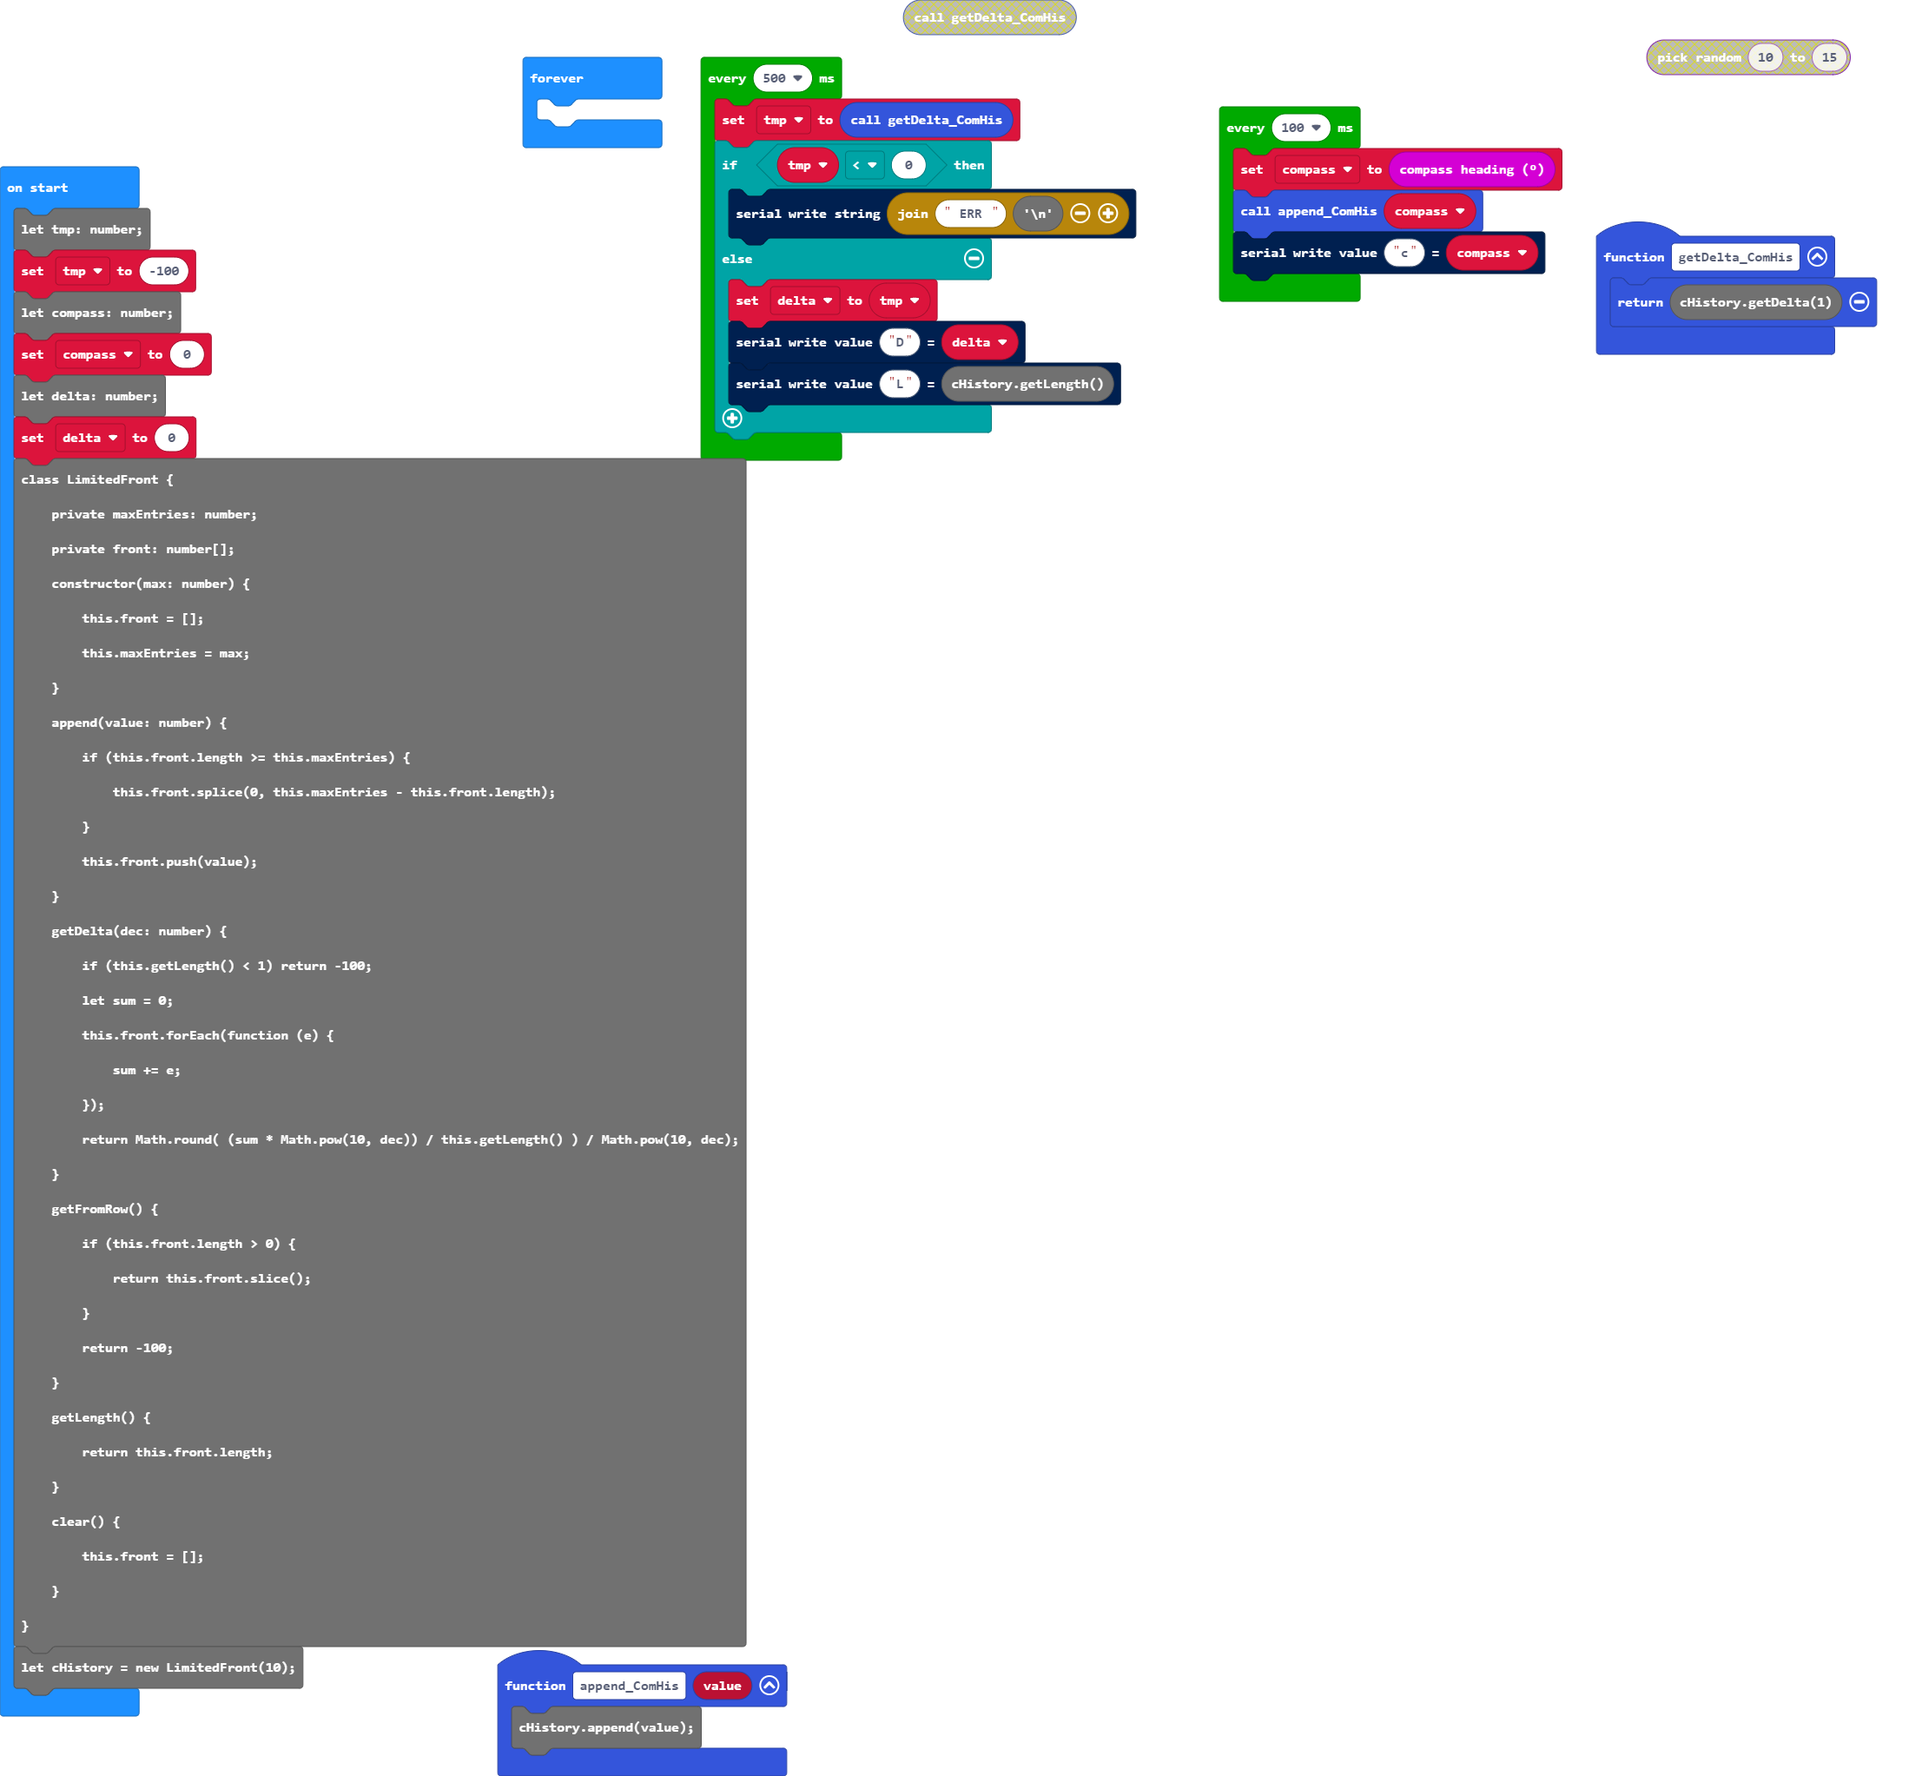
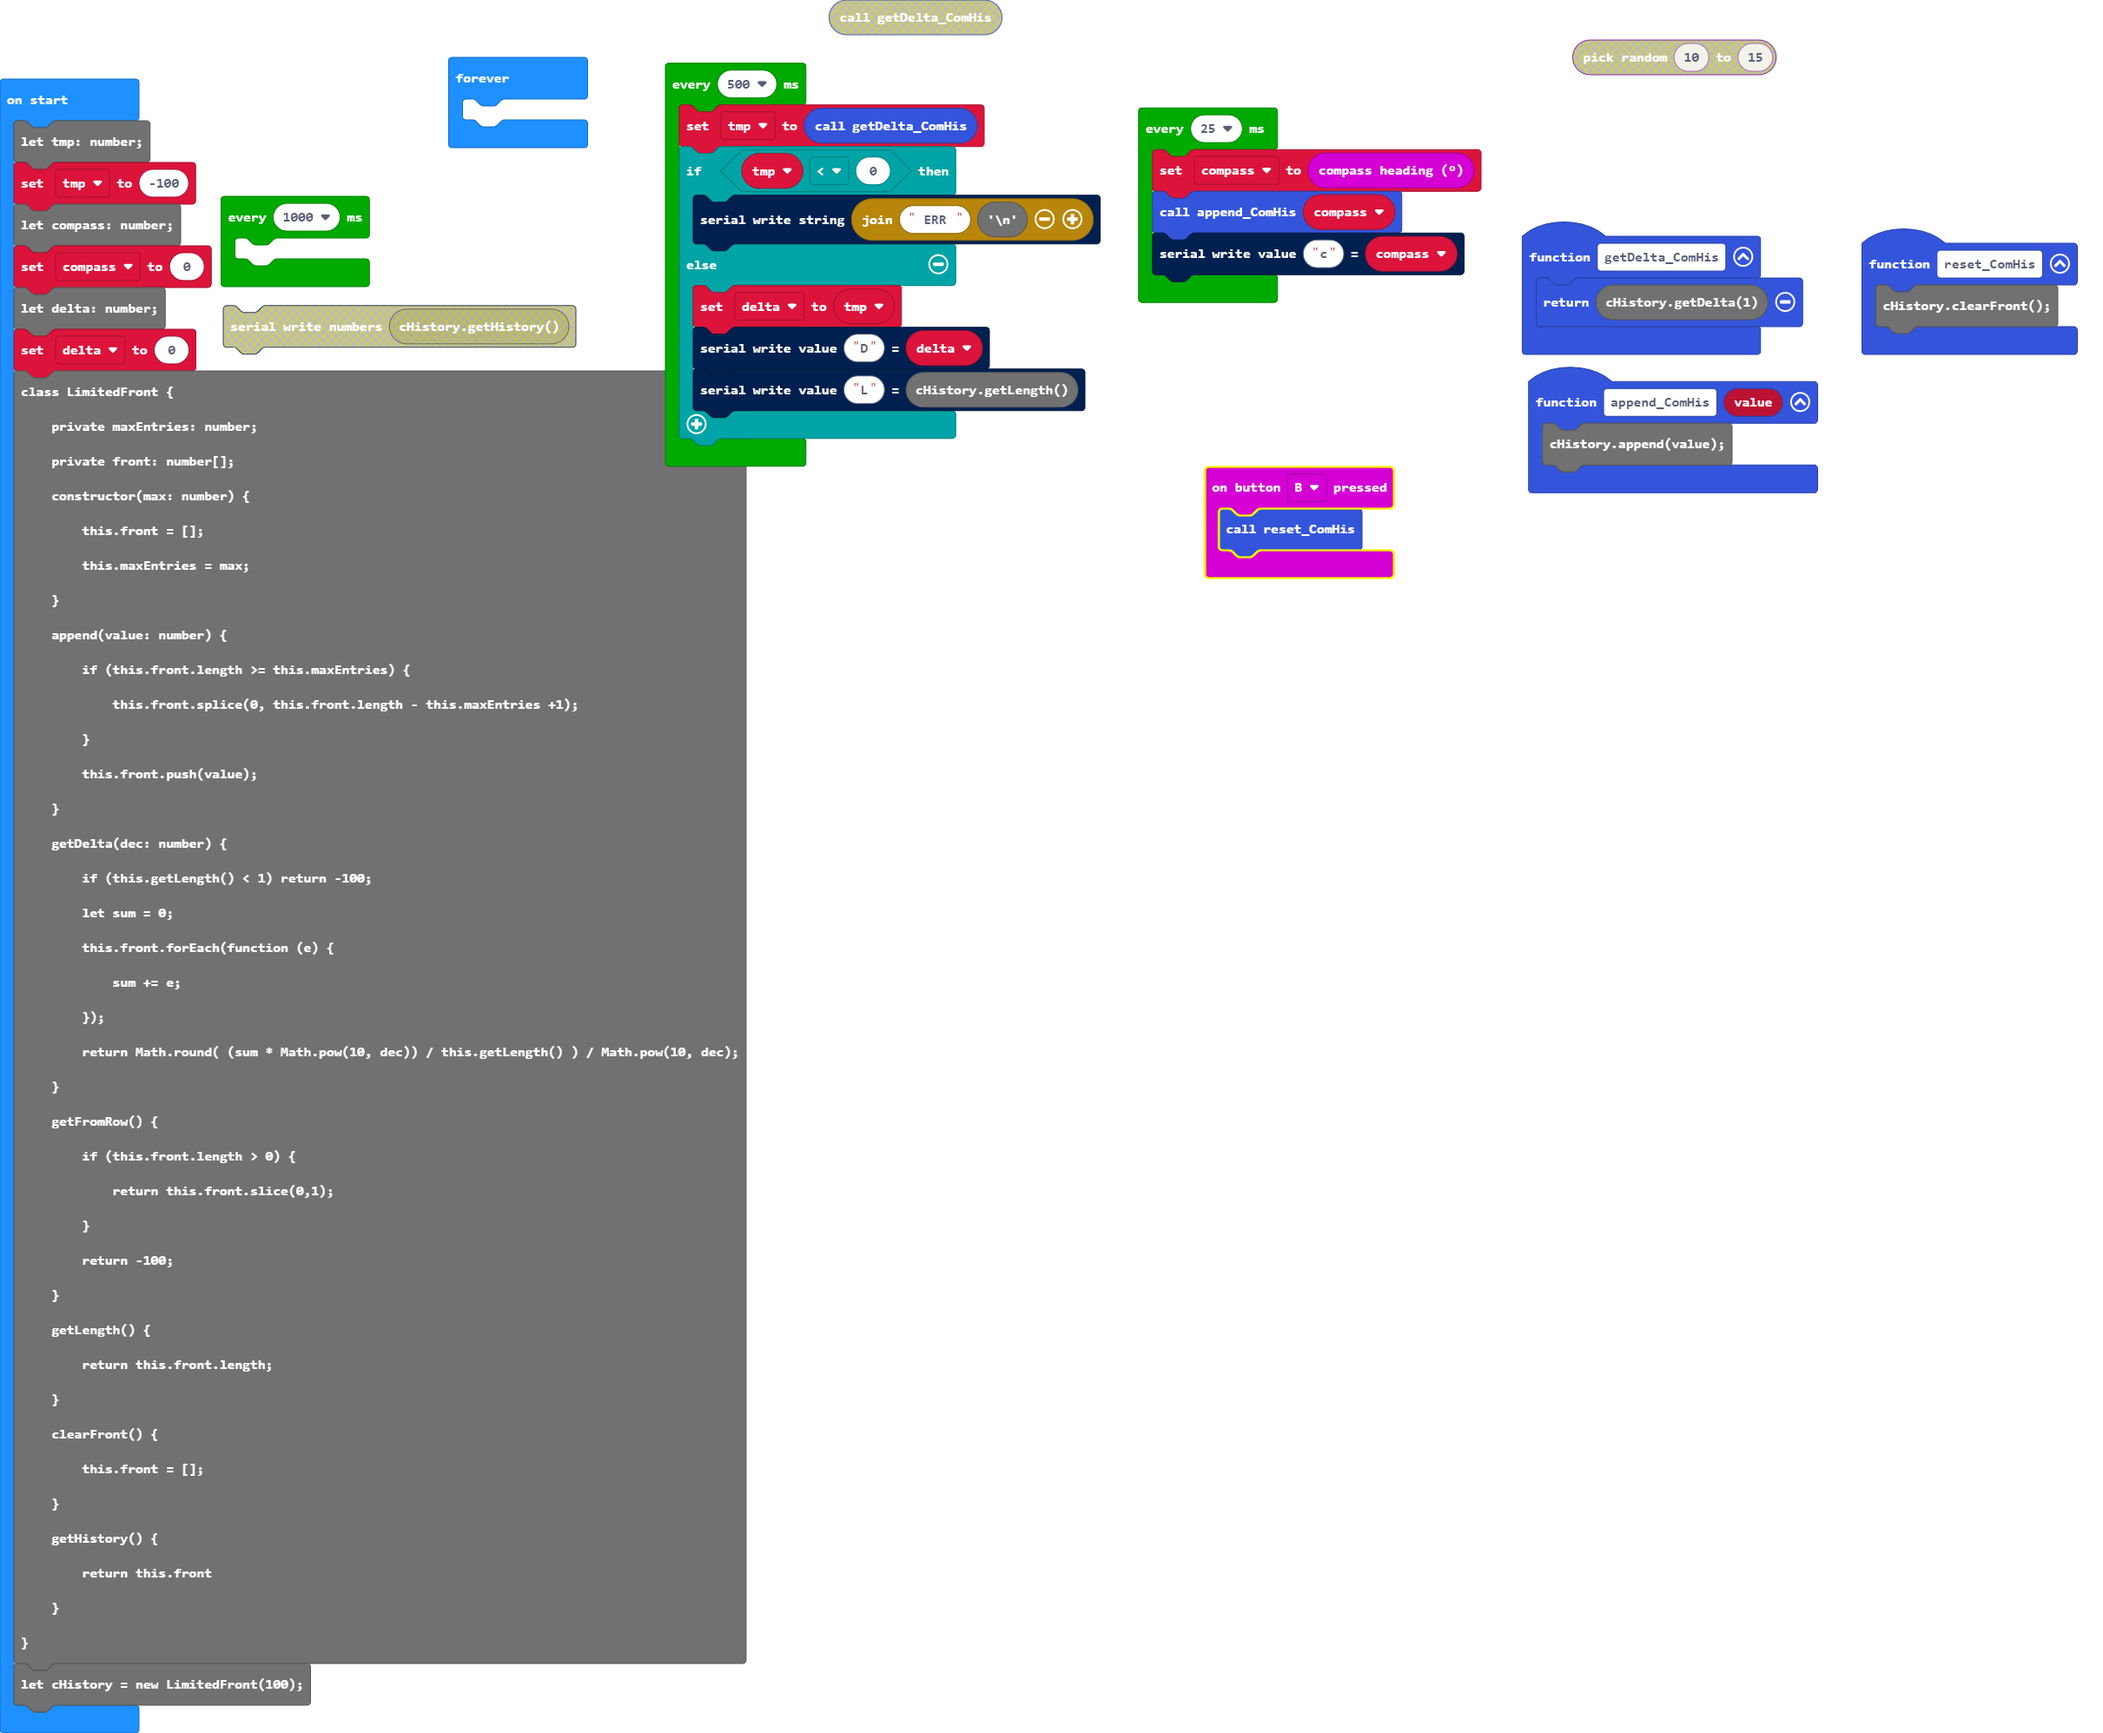
collecting & average

diff --git a/main.ts b/main.ts
@@ -4,6 +4,12 @@ function append_ComHis (value: number) {
 function getDelta_ComHis () {
     return cHistory.getDelta(1)
 }
+input.onButtonPressed(Button.B, function () {
+    reset_ComHis()
+})
+function reset_ComHis () {
+    cHistory.clearFront();
+}
 let tmp: number;
 tmp = -100
 let compass: number;
@@ -19,7 +25,7 @@ class LimitedFront {
     }
     append(value: number) {
         if (this.front.length >= this.maxEntries) {
-            this.front.splice(0, this.maxEntries - this.front.length);
+            this.front.splice(0, this.front.length - this.maxEntries +1);
         }
         this.front.push(value);
     }
@@ -33,18 +39,24 @@ class LimitedFront {
     }
     getFromRow() {
         if (this.front.length > 0) {
-            return this.front.slice();
+            return this.front.slice(0,1);
         }
         return -100;
     }
     getLength() {
         return this.front.length;
     }
-    clear() {
+    clearFront() {
         this.front = [];
     }
+    getHistory() {
+        return this.front
+    }
 }
-let cHistory = new LimitedFront(10);
+let cHistory = new LimitedFront(100);
+loops.everyInterval(1000, function () {
+	
+})
 loops.everyInterval(500, function () {
     tmp = getDelta_ComHis()
     if (tmp < 0) {
@@ -55,11 +67,11 @@ loops.everyInterval(500, function () {
         serial.writeValue("L", cHistory.getLength())
     }
 })
-basic.forever(function () {
-	
-})
-loops.everyInterval(100, function () {
+loops.everyInterval(25, function () {
     compass = input.compassHeading()
     append_ComHis(compass)
     serial.writeValue("c", compass)
+})
+basic.forever(function () {
+	
 })
